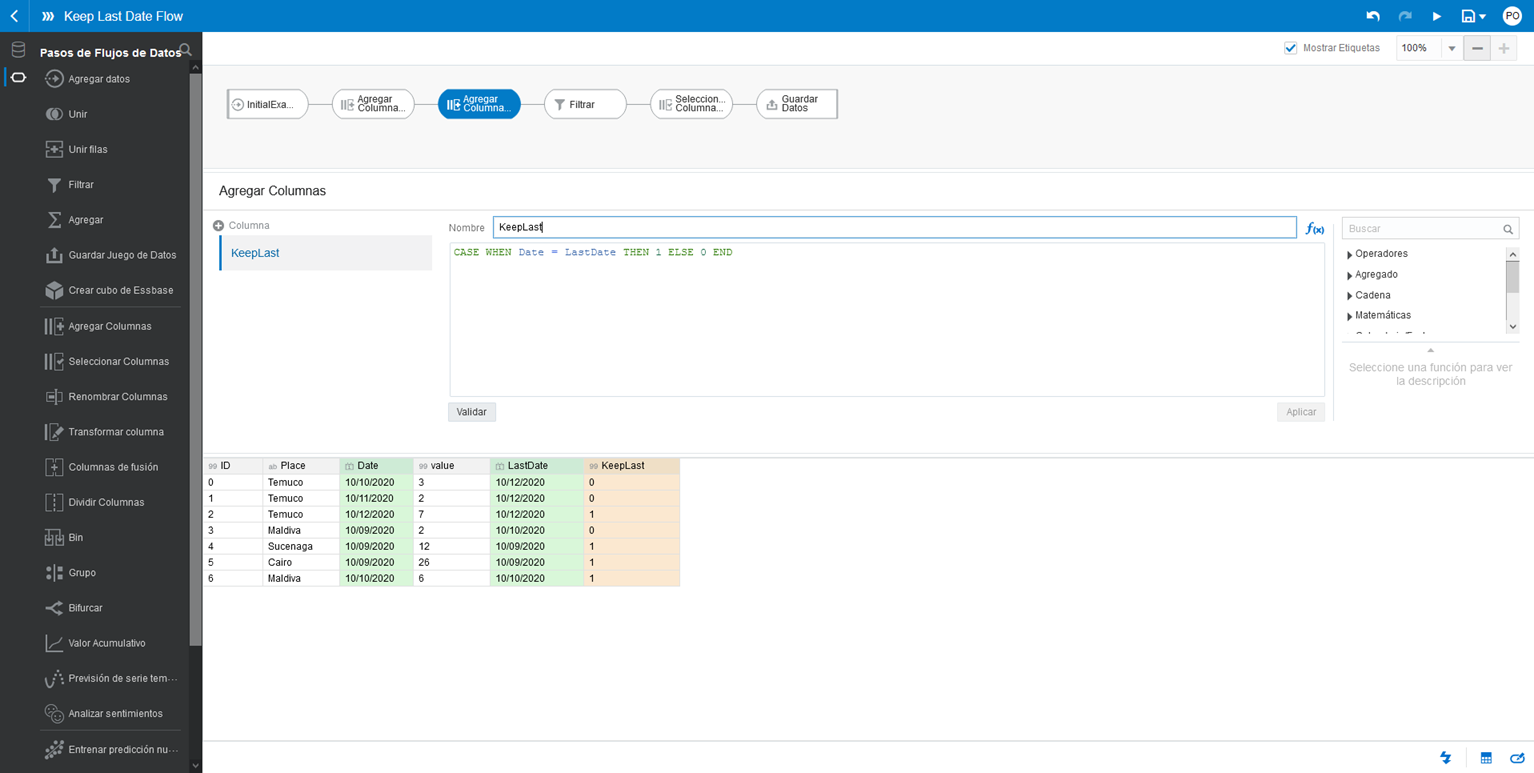
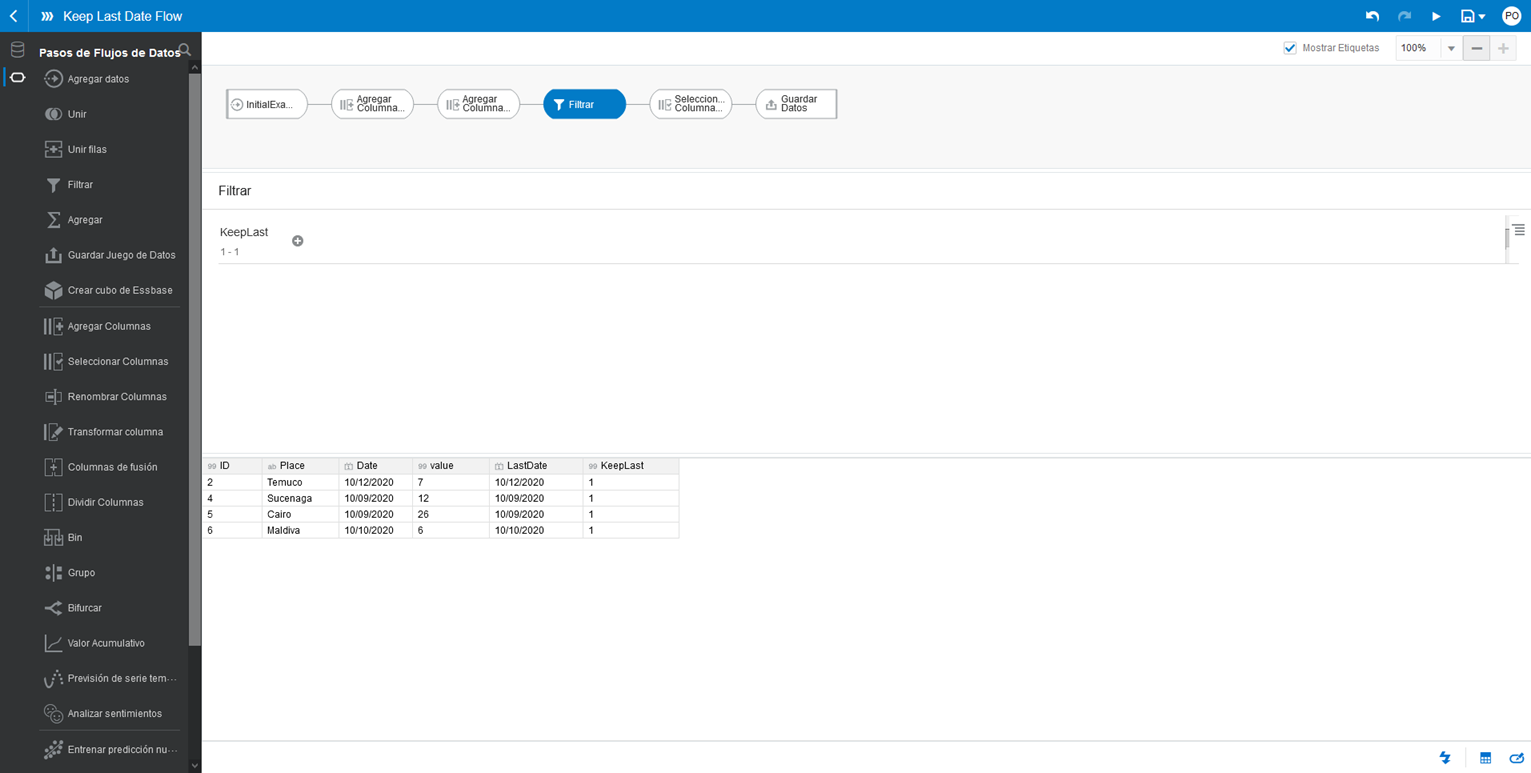
Full content and resumen version init"

diff --git a/index.html b/index.html
@@ -8,20 +8,96 @@
     <link href="styles/style.css" rel="stylesheet" type="text/css">
 </head>
 <body>
-    <h1>Data Aplications </h1>
-
-    <div class='bar-card'>
-        <img src="blog/01-keep-last-date-oac-df/images/step-01.png" alt='bar post' class="img-card">
+    <h1>Data Aplications</h1>
+    <div class='resume-box'>
+        <img src="blog/01-keep-last-date-oac-df/images/step-00.png" alt='bar post' class="img-resume-box">
         <div>
-            <h2 class="header-card"> <a href="">Keep last row </a></p></h2>
-            
-            <p class="description-card">This is my description</p>
+            <h2 class="header-resume-box"> <a href="blog/01-keep-last-date-oac-df.htm">Keep Last Date OAC Data Flow</a></p></h2>
+            <p class="description-resume-box">Kown how to deal with duplicate data keeping only <strong>last row by date</strong>.</p>
         </div>
-        <div class='icon-bar-card'>
+        <div class='icon-resume-box'>
             <a href="#"><i class="fas fa-file-csv"></i></i></a> 
             <a href="#"><i class="fas fa-file-csv"></i></i></a>
             <a href="#"><i class="fas fa-chart-bar"></i></a> 
         </div>
     </div>
+    <div class="detail-box">
+        <div class="row">
+            <div class="column" style="background-color:#aaa;">
+                <h2>Initial State</h2>
+                <table>
+                    <tr>
+                        <th>ID</th>
+                        <th>Place</th>
+                        <th>Date</th>
+                        <th>Value</th>
+                    </tr>
+                    <tr>
+                        <td>0</td>
+                        <td>Temuco</td>
+                        <td>11/10/2020</td>
+                        <td>2</td>
+                    </tr>
+                    <tr>
+                        <td>1</td>
+                        <td>Temuco</td>
+                        <td>12/10/2020</td>
+                        <td>7</td>
+                    </tr>
+                    <tr>
+                        <td>0</td>
+                        <td>Maldiva</td>
+                        <td>09/10/2020</td>
+                        <td>2</td>
+                    </tr>
+                    <tr>
+                        <td>4</td>
+                        <td>Sucenaga</td>
+                        <td>09/10/2020</td>
+                        <td>12</td>
+                    </tr>
+                    <tr>
+                        <td>5</td>
+                        <td>Cairo</td>
+                        <td>10/09/2020</td>
+                        <td>26</td>
+                    </tr>
+                    <tr>
+                        <td>6</td>
+                        <td>Maldiva</td>
+                        <td>10/10/2020</td>
+                        <td>6</td>
+                    </tr>
+                </table>
+            </div>
+            <div class="column" style="background-color:#bbb;">
+                <h2>Desired State</h2>
+                <p>
+                    |ID|Place|Date|Value|
+                    |--|--|--|--|
+                    |2|Temuco|12/10/2020|7|
+                    |4|Sucenaga|09/10/2020|12|
+                    |5|Cairo|09/10/2020|26|
+                    |6|Maldiva|10/10/2020|6|
+                </p>
+            </div>
+        </div>
+       <h3>Create a new data flow in OAC</h3>
+       <h4>1. Load data frame with initial state</h4>
+       <img src="blog/01-keep-last-date-oac-df/images/step-01.png">
+       <h4>2. Search for max date by place</h4>
+       <p>MAX(Date by Place)</p>
+       <img src="blog/01-keep-last-date-oac-df/images/step-02.png">
+       <h4>3. Create a Boolean to track last date</h4>  
+       <p>CASE WHEN Date = LastDate THEN 1 ELSE 0 END</p>
+       <img src="blog/01-keep-last-date-oac-df/images/step-03.png">
+       <h4>4. Apply Boolean filter</h4>
+       <img src="blog/01-keep-last-date-oac-df/images/step-04.png">
+       <h4>5. Remove transition columns</h4>
+       <img src="blog/01-keep-last-date-oac-df/images/step-05.png">
+       <h4>6. Save desired state</h4>
+       <img src="blog/01-keep-last-date-oac-df/images/step-06.png">
+</div>
+<script src="scripts/main.js"></script>
 </body>
 </html>

diff --git a/styles/style.css b/styles/style.css
@@ -6,7 +6,7 @@ html {
 }
 
 body {
-    width: 800px;
+    width: 1250px;
     margin: 0 auto;
     padding: 0 20px 20px 20px;
     background-color: #777777;
@@ -24,33 +24,33 @@ a {
     text-decoration: none;
 }
 
-.bar-card {
+.resume-box {
     margin: 0 auto;
     width: 80%;
     box-shadow: 0 4px 8px rgba(0, 0, 0, 0.2);
     background-color: #336699;
 }
 
-.img-card {
+.img-resume-box {
     display: block;
     width: 100%;
 }
 
-.header-card {
-    font-size: 30px;
+.header-resume-box {
+    font-size: 40px;
     padding: 0;
-    margin: 10px 0;
+    margin: 10px 0 0 10px ;
 }
 
-.icon-bar-card {
+.icon-resume-box {
     width: 100%;
     background-color: #555555;
     overflow: auto;
 }
 
-.icon-bar-card a {
+.icon-resume-box a {
     float: left;
-    width: 20%;
+    width: 10%;
     text-align: center;
     padding: 12px 0;
     transition: all 0.3s ease;
@@ -58,18 +58,20 @@ a {
     font-size: 36px;
 }
 
-.icon-bar-card a:hover {
+.icon-resume-box a:hover {
     background-color: #336699;
 }
 
-.description-card {
-    font-size: 10px;
+.description-resume-box {
+    font-size: 20px;
     padding: 0;
-    margin: 10px;
+    margin: -30px 0 10px 10px;
 }
 
-.inlineTable {
-    display: inline-block;
-    transition: 0.3s;
-    border-radius: 5px;
+.row {
+    display: flex;
+}
+  
+.column {
+    flex: 50%;
 }

diff --git a/scripts/main.js b/scripts/main.js
@@ -1,0 +1,13 @@
+let imageCard = document.querySelector('img');
+
+
+// setTimeout(myFunction, 10000);
+
+// for (let index = 0; index <= 5; index++) {
+//     function myFunction() {
+//         imageCard.setAttribute('src','blog/01-keep-last-date-oac-df/images/step-0'+ String(index) + '.png')
+//     }
+        
+// };
+
+imageCard.setAttribute('src','blog/01-keep-last-date-oac-df/images/step-0'+ String(0) + '.png')

diff --git a/blog/01-keep-last-date-oac-df.htm b/blog/01-keep-last-date-oac-df.htm
@@ -1,4 +1,4 @@
-<body>
+<!-- <body>
     <div>        
     <h1>Keep Last Date OAC Data Flow</h1>
     <p>
@@ -45,7 +45,7 @@
 </body>
 
 
-<!-- 
+
 |1|Temuco|11/10/2020|2|
 |2|Temuco|12/10/2020|7|
 |3|Maldiva|09/10/2020|2|
